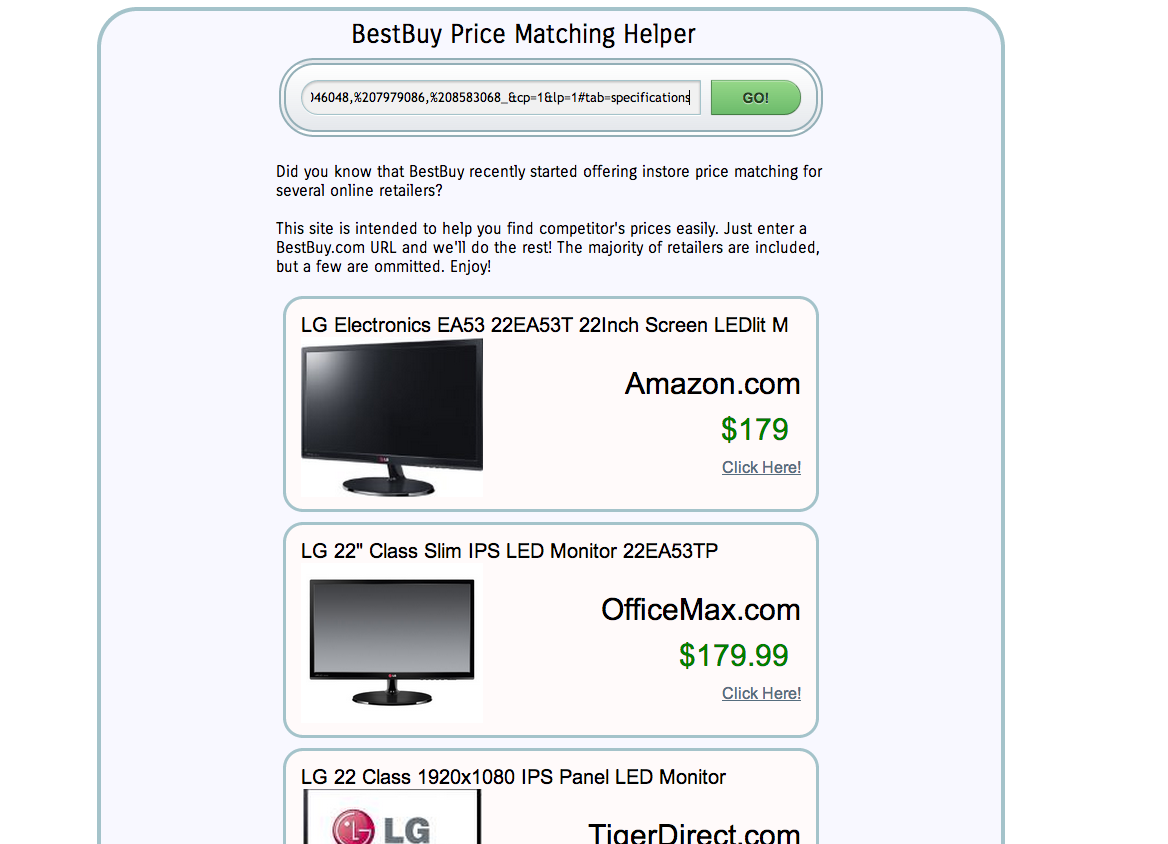
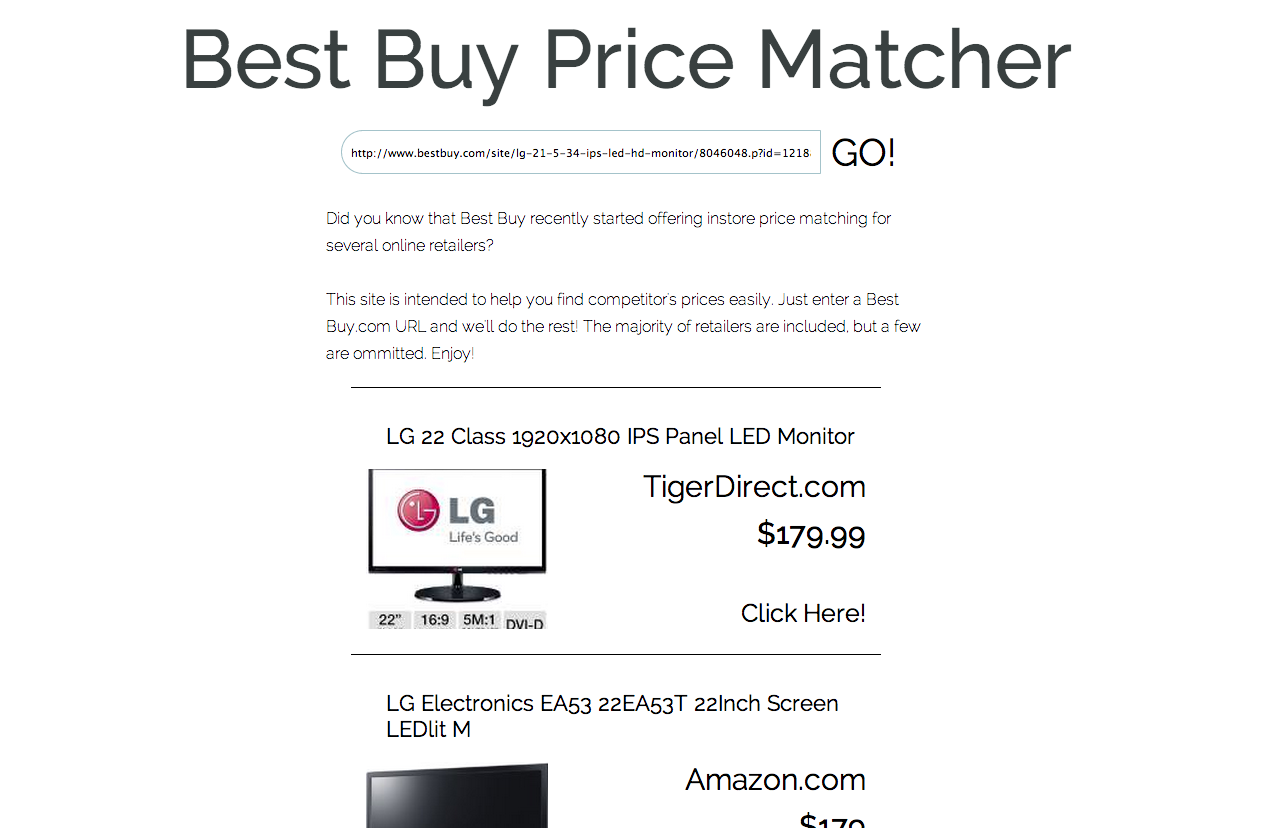
styling updates

Changed region(s): [[0.0925, 0.0, 0.863, 1.0], [0.0616, 0.0302, 0.0925, 1.0]]

diff --git a/main.css b/main.css
@@ -1,12 +1,13 @@
 @charset 'UTF-8';
 
-a:link {color:#566D7E;}      /* unvisited link */
-a:visited {color:#566D7E;}  /* visited link */
+a:link {color:black;  text-decoration: none;}      /* unvisited link */
+a:visited {color:black;  text-decoration: none;}  /* visited link */
 a:hover {color:#a4c3ca;}  /* mouse over link */
-a:active {color:#0000FF;}  /* selected link */
+a:active {color:black;}  /* selected link */
 
 body{
-font-family: 'Carrois Gothic', sans-serif;
+font-family: 'Raleway', sans-serif;
+font-weight: 200;
 }
 #loadingDiv{
   background: url(loading.gif);
@@ -18,11 +19,8 @@ font-family: 'Carrois Gothic', sans-serif;
   margin: 0 auto;
 }
 #wrapper{
-width: 900px;
+width: 600px;
 margin: 0 auto;
-background: ghostwhite;
-border: solid 4px #a4c3ca;
-border-radius: 40px;
 min-height: 400px;
 height: auto !important;
 height: 400px;
@@ -30,14 +28,17 @@ overflow: auto;
 }
 #content{
   margin: 0 auto;
-  width: 550px;
+  width: 600px;
   margin-bottom: 20px;
+  line-height: 1.7em;
 }
 #title{
-  width: 400px;
-  margin: 0 auto;
-  font-size: 26px;
+  text-align: center;
+  font-size: 82px;
   padding: 8px;
+  font-weight: 500;
+  color: #232B2B;
+  opacity: .9;
 }
 .image{
   height: auto;
@@ -49,7 +50,6 @@ overflow: auto;
 float: left;
 height: 160px;
 width: 180px;
-overflow: visible;
 max-width: 100%;
 max-height: 100%;
 background-size: 100%;
@@ -58,69 +58,62 @@ background-position: center;
 padding-left: 2px;
 margin: 0 auto;
 }
-.result{
-background: #FFFAFA;
+#results{
+  width: 550px;
+  margin: 0 auto;
+}
+.result{ 
+float: left;
 width: 500px;
 margin: 0 auto;
 min-height: 180px;
-border: solid #a4c3ca;
-border-radius: 20px;
 padding: 15px;
+border-top: 1px solid;
 margin-bottom: 10px;
-font-family: Arial, Helvetica, sans-serif;
+font-family: 'Raleway', sans-serif;
+font-weight: 400;
 }
 .resultcontainer {
-  float: left; 
-  border: 3px double #a4c3ca; 
-  margin: 1px 10px; 
-  color: black; 
-  background: ghostwhite;
+  float: left;  
+  margin: 1px 10px;  
   width: 810px;
   clear: left;
   padding: 5px;
   border-radius: 20px;
 }
 .title{
-  font-size: 20px;
+  font-size: 22px;
   width: 500px;
   margin: 0 auto;
   float: left;
   clear: both;
+  padding: 20px;
 
 }
 .retailer{
-  color: black;
   float: right;
   font-size: 30px;
   clear: right;
-  padding-top: 30px;
 }
 .price{
-  color: green;
   font-size: 30px;
   float: right;
   clear: right;
-  margin: 12px;
+  margin: 12px 0px;
+  font-weight: 500;
 }
 .link{
-  color: darkred;
-  text-decoration: none;
+ 
   float: right;
   clear: right;
+  font-size: 25px;
+  padding-top: 35px;
 }
-#search{
-  background: ghostwhite;
-  background-image: -moz-linear-gradient(#fff, #d4e8ec);
-  background-image: -webkit-gradient(linear,left bottom,left top,color-stop(0, #e5e8ec),color-stop(1, #fff));
-  border-radius: 35px;
-  border-width: 7px;
-  border-style: double;
-  border-color: #93afb7;            
-  width: 500px;
+#search{     
   height: 35px;
   padding: 15px;
-  margin: 0 auto 25px;
   overflow: hidden; /* Clear floats */
+  padding-bottom: 40px;
 }
 
 #searchbox
@@ -128,65 +121,36 @@ font-family: Arial, Helvetica, sans-serif;
   outline: 0;
   float: left;
   padding: 5px 9px;
-  height: 23px;
-  width: 380px;
+  height: 32px;
+  width: 460px;
   border: 1px solid #a4c3ca;
-  font: normal 13px 'trebuchet MS', arial, helvetica;
-  background: #f1f1f1;
   
   -moz-border-radius: 50px 3px 3px 50px;
    border-radius: 50px 3px 3px 50px;
-   -moz-box-shadow: 0 1px 3px rgba(0, 0, 0, 0.25) inset, 0 1px 0 rgba(255, 255, 255, 1);
-   -webkit-box-shadow: 0 1px 3px rgba(0, 0, 0, 0.25) inset, 0 1px 0 rgba(255, 255, 255, 1);
-   box-shadow: 0 1px 3px rgba(0, 0, 0, 0.25) inset, 0 1px 0 rgba(255, 255, 255, 1);            
+             
 }
 
 /* ----------------------- */
 
 #searchbutton
 {   
-  float: left;
-  background: #6cbb6b;
-  background-image: -moz-linear-gradient(#95d788, #6cbb6b);
-  background-image: -webkit-gradient(linear,left bottom,left top,color-stop(0, #6cbb6b),color-stop(1, #95d788));
-  
-  -moz-border-radius: 3px 50px 50px 3px;
-  border-radius: 3px 50px 50px 3px;
-  
-  border-width: 1px;
-  border-style: solid;
-  border-color: #7eba7c #578e57 #447d43;
-  
-   -moz-box-shadow: 0 0 1px rgba(0, 0, 0, 0.3), 0 1px 0 rgba(255, 255, 255, 0.3) inset;
-   -webkit-box-shadow: 0 0 1px rgba(0, 0, 0, 0.3), 0 1px 0 rgba(255, 255, 255, 0.3) inset;
-   box-shadow: 0 0 1px rgba(0, 0, 0, 0.3), 0 1px 0 rgba(255, 255, 255, 0.3) inset;      
-
-  height: 35px;
-  margin: 0 0 0 10px;
-        padding: 0;
-  width: 90px;
-  cursor: pointer;
-  font: bold 14px Arial, Helvetica;
-  color: #23441e;
-  
-  text-shadow: 0 1px 0 rgba(255,255,255,0.5);
+font-size: 38px;
+font-weight: 400;
+padding-left: 10px;
+float:left;
+width:70px;
 }
 
 #searchbutton:hover
 {   
-  background: #95d788;
-  background-image: -moz-linear-gradient(#6cbb6b, #95d788);
-  background-image: -webkit-gradient(linear,left bottom,left top,color-stop(0, #95d788),color-stop(1, #6cbb6b));
+font-style: italic;
+font-size: 37px;
 } 
 
 #searchbutton:active
 {   
-  background: #95d788;
-  outline: none;
-   
-   -moz-box-shadow: 0 1px 4px rgba(0, 0, 0, 0.5) inset;
-   -webkit-box-shadow: 0 1px 4px rgba(0, 0, 0, 0.5) inset;
-   box-shadow: 0 1px 4px rgba(0, 0, 0, 0.5) inset;    
+  /*insert transition here maybe to be lame*/
+  
 }
 
 #searchbutton::-moz-focus-inner

diff --git a/index.html b/index.html
@@ -3,25 +3,26 @@
     <head>
         <meta content="text/html;charset=utf-8" http-equiv="Content-Type">
         <meta content="utf-8" http-equiv="encoding">
-        <title>BestBuy Price Matching Helper</title>
+        <title>Best Buy Price Matcher</title>
         <script src="mustache.js"></script>
         <script src="http://code.jquery.com/jquery-1.10.1.min.js"></script>
         <script src="http://code.jquery.com/jquery-migrate-1.2.1.min.js"></script>
         <script src="main.js"></script>
         <link rel="stylesheet" type="text/css" href="main.css">
-        <link href='http://fonts.googleapis.com/css?family=Carrois+Gothic' rel='stylesheet' type='text/css'>
+        <link href='http://fonts.googleapis.com/css?family=Raleway:400,500,200' rel='stylesheet' type='text/css'>
     </head>
     <body>
+            <div id="header"></div>
+            <div id="title">Best Buy Price Matcher</div>
         <div id="wrapper">
-            <div id="title">BestBuy Price Matching Helper</div>
             <div id="search">
                 <input id="searchbox" type="text" placeholder="Enter Search Here" />
-                <input id="searchbutton" type="submit" value="GO!" />
+                <div id="searchbutton">GO!</div>
             </div>
             <div id="loadingDiv"></div>
             <div id="content">
 
-                Did you know that BestBuy recently started offering instore price matching for several online retailers?<br><br>This site is intended to help you find competitor's prices easily. Just enter a BestBuy.com URL and we'll do the rest!  The majority of retailers are included, but a few are ommitted. Enjoy!
+                Did you know that Best Buy recently started offering instore price matching for several online retailers?<br><br>This site is intended to help you find competitor's prices easily. Just enter a Best Buy.com URL and we'll do the rest!  The majority of retailers are included, but a few are ommitted. Enjoy!
 
             </div>
             <div id="results">  
